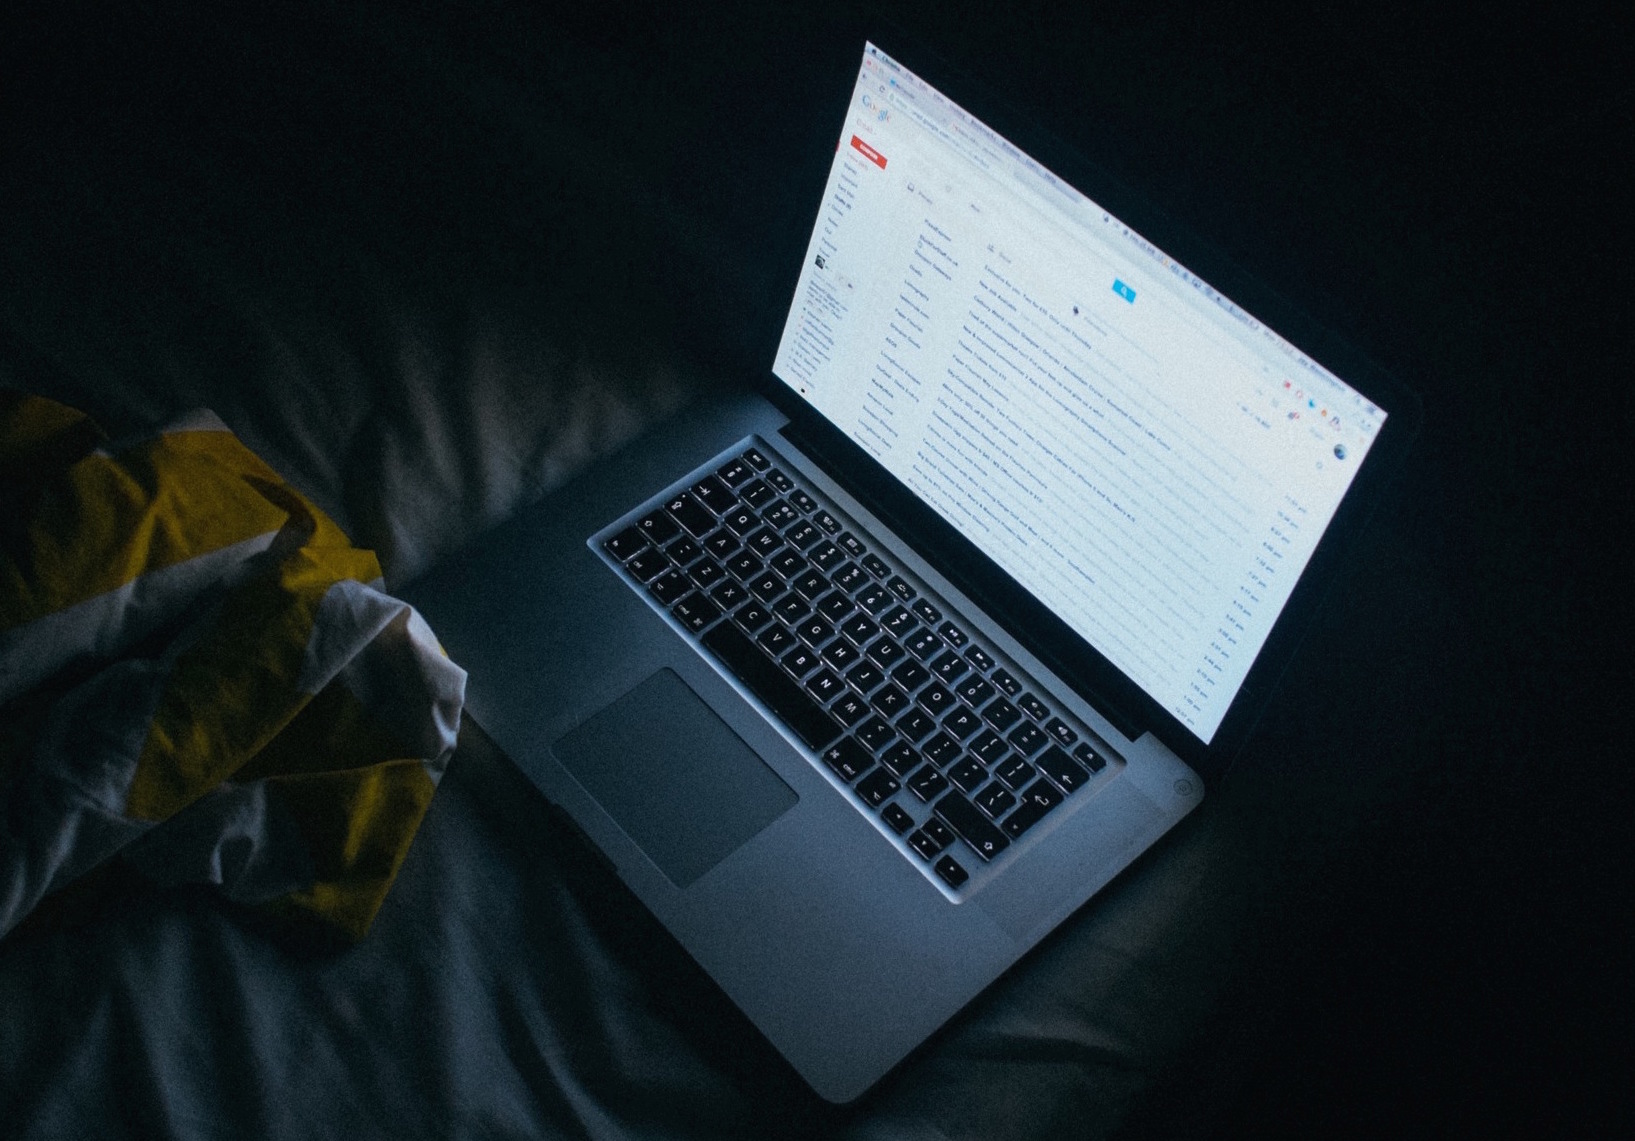
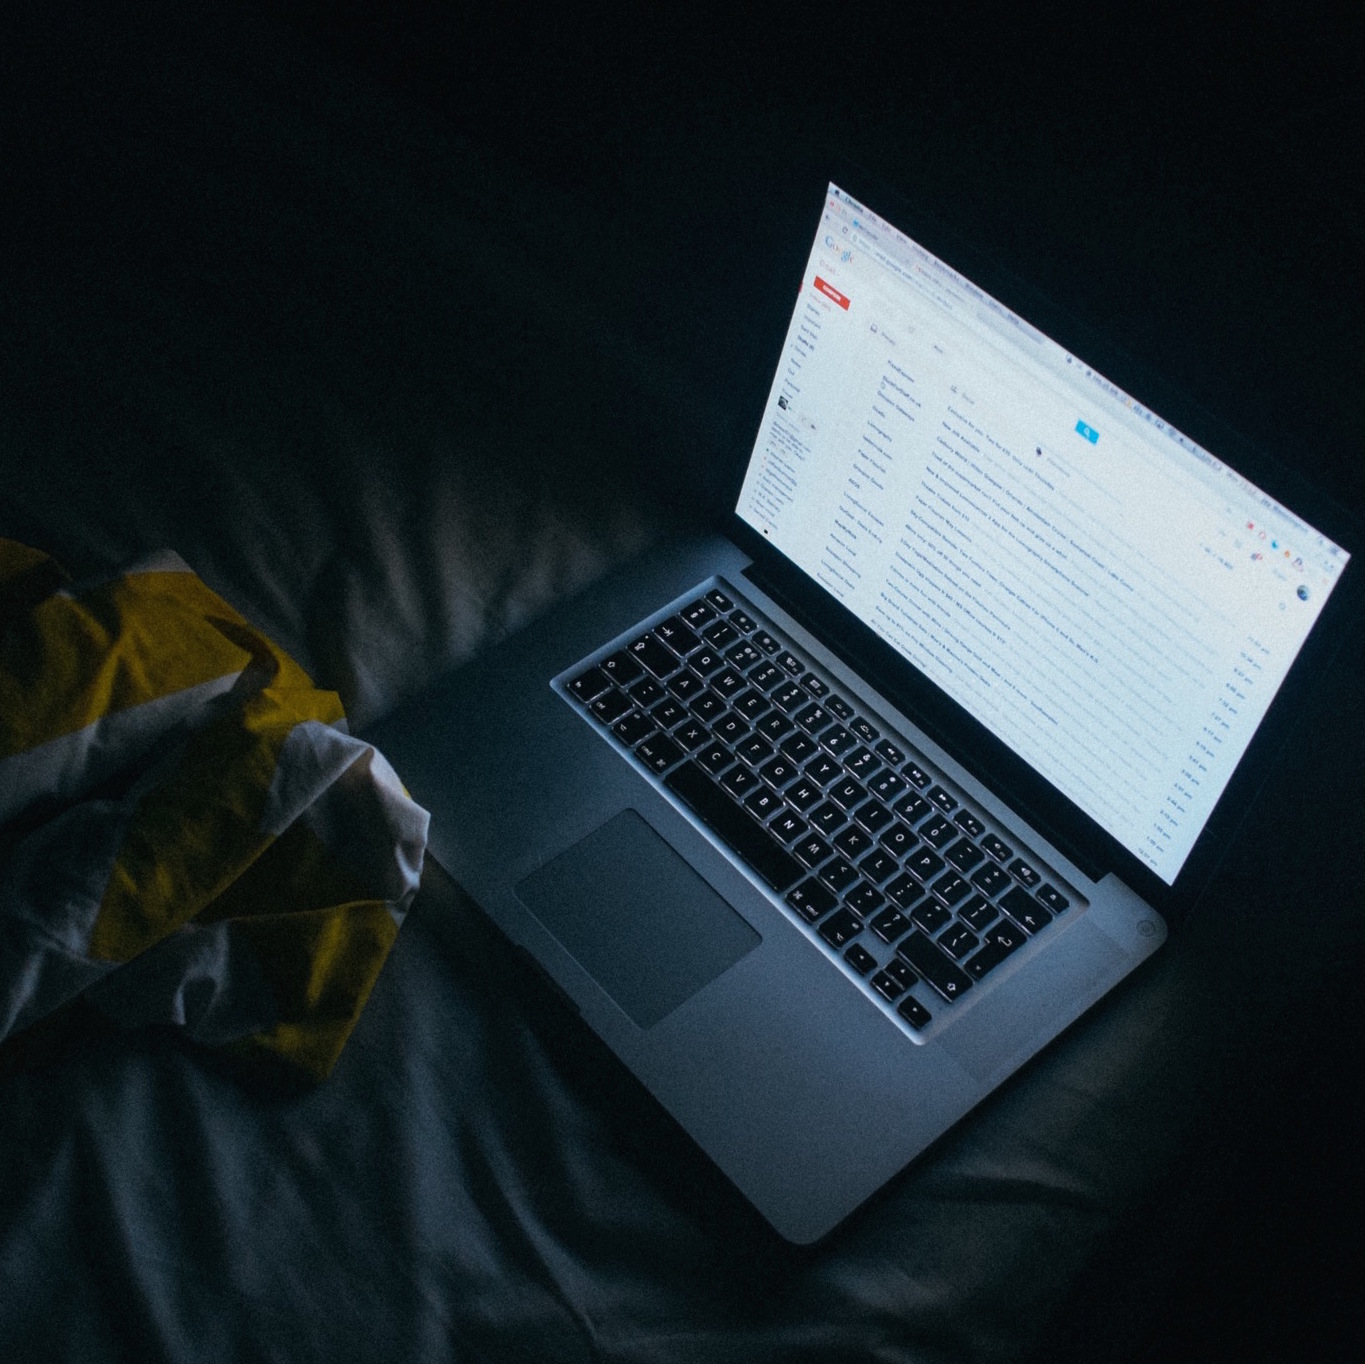
Resize background image and fix positioning on landing page

diff --git a/app/assets/stylesheets/application.css b/app/assets/stylesheets/application.css
@@ -30,9 +30,10 @@
 
 body {
   background-image: url(/assets/email.jpg);
+  background-size: cover;
   background-repeat: no-repeat;
-  height: auto%;
-  width: 100%;
+  height: 100%;
+  width: auto;
  }
 
 .email-form {

diff --git a/app/assets/stylesheets/landing.css b/app/assets/stylesheets/landing.css
@@ -1,5 +1,5 @@
 .landing-content {
-   margin: 120px 0 0 35px;
+   margin: 100px 0 0 -50px;
  }
 
 .landing-content h1 a, .landing-content h1 a:hover{
